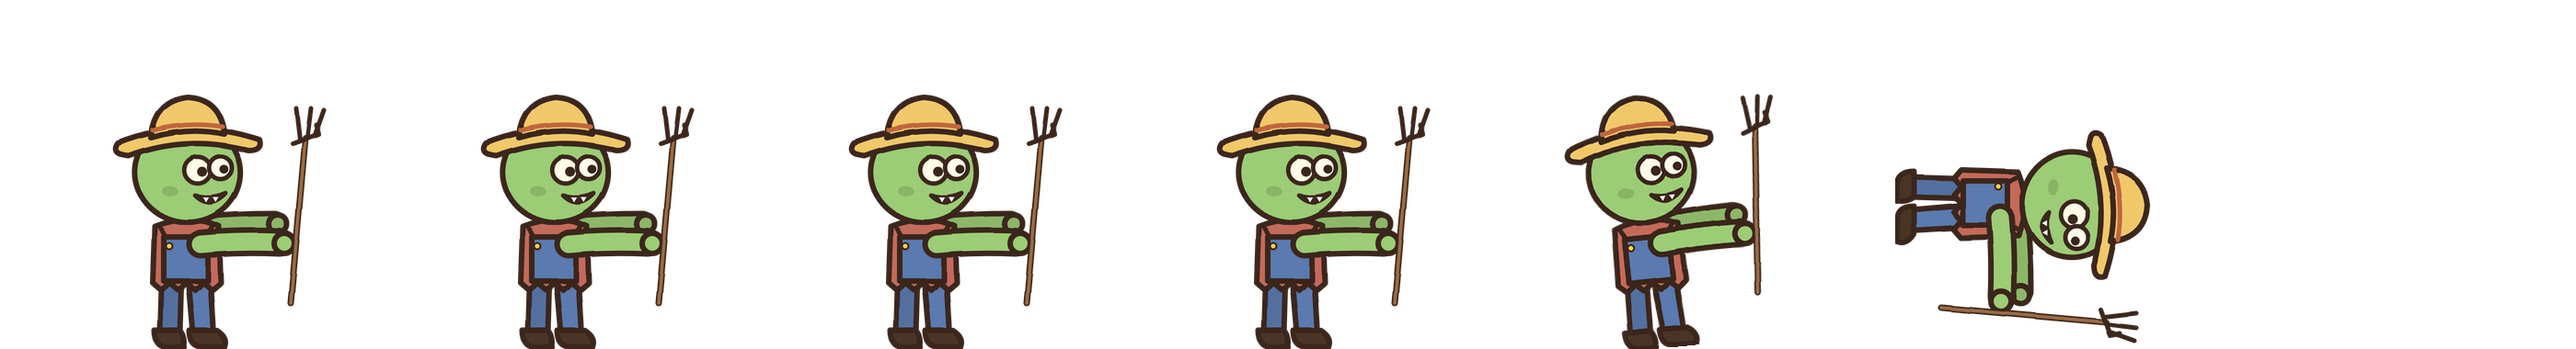
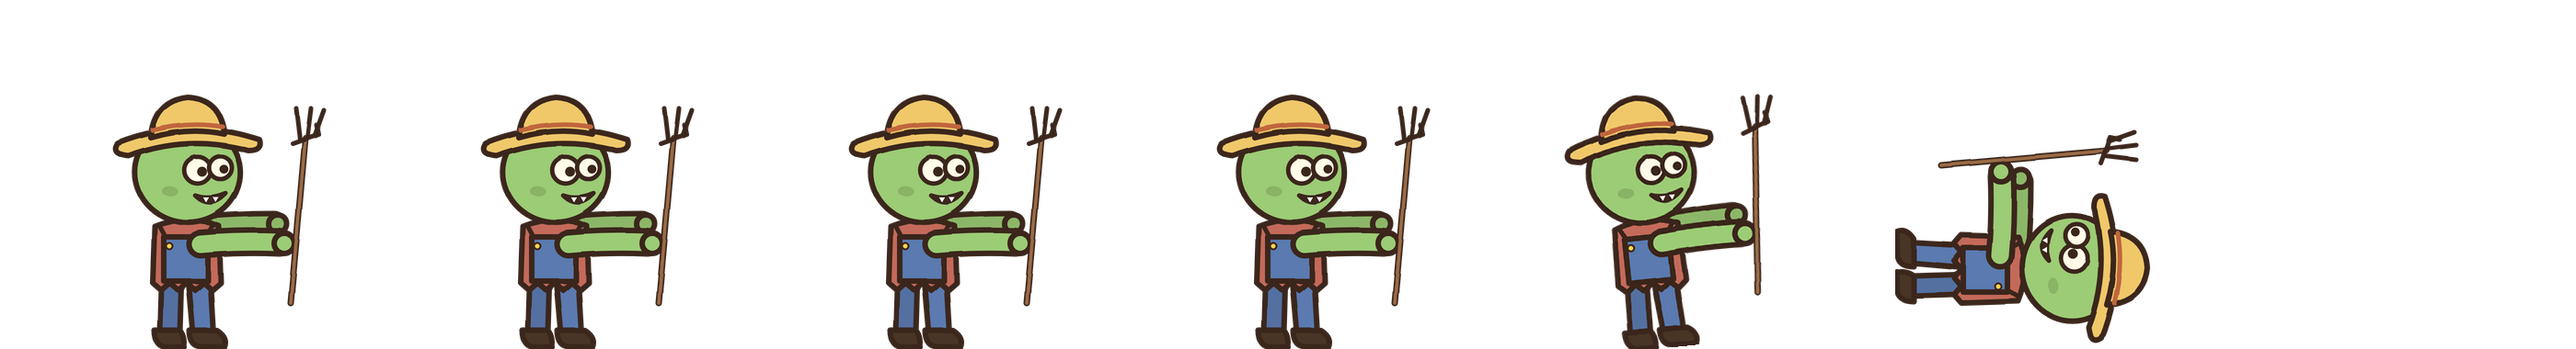
좀비 죽는 모습 고침: 물구나무·엎드려 팔 박힘 → 뒤로 벌러덩 / 기는 좀비는 그 자리에 엎어짐
- 죽기 그림을 걷기 그림에서 시계 방향으로 돌려 만들던 것을 반대로 돌려 좌우 뒤집음(얼굴·팔이 하늘)
- 기어 다니는 좀비(crawler·bucket)는 돌리지 않고 납작하게 · 죽을 때 돌아서지 않음(Zombie.IsCrawler)
- doodle_art.py zdie = 있는 시트에서 죽기 칸만 다시 (Edge 없이)
- PlayTest: 죽는 방향 2줄 + 19d_zombie_die 캡처 · 시험 errors=0

Changed region(s): [[0.7146, 0.3763, 0.8389, 0.9842]]

diff --git a/tools/doodle_art.py b/tools/doodle_art.py
@@ -5,6 +5,7 @@
 → 게임 코드는 그대로, 그림만 바뀜. 뼈대는 그 다음 tools/rig_gen.py 로 다시 심음(ZOMBIE_RIG · CRAWL_RIG · CAPY_BY_SKIN).
 
 사용: PYTHONUTF8=1 python tools/doodle_art.py [capy] [skins] [zombie] [map] [icon]     (없으면 capy·zombie·map) — PowerShell 에서(Bash 에선 Edge 가 안 뜸)
+      zdie = 좀비 죽기 칸만 다시(Edge 없이, Bash 에서도 됨)
       → Kachi_Gun/Assets/Resources/Art/{Char,Zombie,Map}/...  · 미리보기 tools/_preview/doodle_*.png
 원래 도트 그림 백업: tools/_build/pixel_orig/ (git 에는 원래 그림이 기록에 있음)
 
@@ -447,6 +448,45 @@ def ogre():
     ])
 
 
+CRAWLERS = {'crawler', 'bucket'}     # 기어 다니는 좀비 (이미 누워 있음)
+
+
+def zombie_die_cell(a, crawl=False):
+    """죽기 칸(400x380): 바닥(y=376)에 붙인 쓰러진 그림.
+    서 있는 좀비 = 뒤로 벌러덩(머리 오른쪽 · 얼굴·팔은 하늘). 11-08 전엔 시계 방향으로 돌려 얼굴·팔이 땅에 박혔음.
+    기어 다니는 좀비 = 돌리지 않고 그 자리에 납작 엎어짐(머리 오른쪽 그대로). 11-08 전엔 90도 돌려 물구나무가 됐음.
+    게임(Zombie.Die): 서 있는 좀비는 맞은 쪽 반대로 뒤집어 그림, 기어 다니는 좀비는 늘 분대 쪽을 봄."""
+    if crawl:
+        ly = a.rotate(-3, resample=Image.BICUBIC, center=(200, 376))      # 머리 쪽이 살짝 땅으로
+    else:
+        ly = a.rotate(90, resample=Image.BICUBIC, expand=True).transpose(Image.FLIP_LEFT_RIGHT)
+    arr = np.array(ly); ys, xs = np.nonzero(arr[..., 3] > 0)
+    ly = ly.crop((xs.min(), ys.min(), xs.max() + 1, ys.max() + 1))
+    if crawl:
+        ly = ly.resize((ly.width, max(1, int(ly.height * 0.86))), Image.BICUBIC)   # 털썩 납작
+    if ly.width > 396:
+        k = 396 / ly.width; ly = ly.resize((396, int(ly.height * k)), Image.BICUBIC)
+    cell = Image.new('RGBA', (400, 380), (0, 0, 0, 0))
+    cell.alpha_composite(ly, ((400 - ly.width) // 2, 376 - ly.height))
+    return cell
+
+
+def remake_zombie_die():
+    """이미 있는 시트의 걷기 칸(0)에서 죽기 칸(5)만 다시 만듦 — Edge 없이 (Bash 에서도 됨)"""
+    d = os.path.join(ART, 'Zombie')
+    for fn in sorted(os.listdir(d)):
+        if not (fn.startswith('z_') and fn.endswith('.png')):
+            continue
+        name = fn[2:-4]
+        p = os.path.join(d, fn)
+        sheet = Image.open(p).convert('RGBA')
+        a = sheet.crop((0, 0, 400, 380))
+        sheet.paste((0, 0, 0, 0), (2000, 0, 2400, 380))
+        sheet.alpha_composite(zombie_die_cell(a, name in CRAWLERS), (2000, 0))
+        sheet.save(p)
+        print('zombie die', name)
+
+
 def make_zombie(name, svg):
     im = render(svg, 400, 380, wob=4.0, freq=0.018)
     a = Image.fromarray(im)
@@ -456,13 +496,8 @@ def make_zombie(name, svg):
     # 4 맞기 = 살짝 뒤로 젖힘
     hit = a.rotate(6, resample=Image.BICUBIC, center=(200, 376))
     sheet.alpha_composite(hit, (1600, 0))
-    # 5 죽기 = 눕힘(머리 오른쪽), 바닥에 붙임
-    ly = a.rotate(-90, resample=Image.BICUBIC, expand=True)
-    arr = np.array(ly); ys, xs = np.nonzero(arr[..., 3] > 0)
-    ly = ly.crop((xs.min(), ys.min(), xs.max() + 1, ys.max() + 1))
-    if ly.width > 396:
-        k = 396 / ly.width; ly = ly.resize((396, int(ly.height * k)), Image.BICUBIC)
-    sheet.alpha_composite(ly, (2000 + (400 - ly.width) // 2, 376 - ly.height))
+    # 5 죽기
+    sheet.alpha_composite(zombie_die_cell(a, name in CRAWLERS), (2000, 0))
     # 6 = 흰 실루엣
     al = im[..., 3]
     wh = np.zeros_like(im); wh[..., :3] = 255; wh[..., 3] = al
@@ -626,6 +661,8 @@ if __name__ == '__main__':
         pv.save(os.path.join(PREV, 'doodle_skins.png'))
     if 'zombie' in what:
         make_zombies()
+    if 'zdie' in what:
+        remake_zombie_die()
     if 'map' in what:
         make_map()
     if 'icon' in what:

diff --git a/Kachi_Gun/Assets/Scripts/Editor/PlayTest.cs b/Kachi_Gun/Assets/Scripts/Editor/PlayTest.cs
@@ -747,6 +747,32 @@ namespace KachiGun.EditorTools
                 Log($"밀림 값: 미사일 {mv:0.00} · 일반 {mv2:0.00}");
                 Check(mv < 0.001f && mv2 > 0.5f, "미사일 피해 = 넉백 없음 (일반 피해만 밀림)");
                 GM.ClearTargets();
+                // 11-08 죽는 방향: 서 있는 좀비 = 분대(왼쪽)에서 맞으면 뒤로 벌러덩(머리 오른쪽 = 뒤집지 않음)
+                //                기어 다니는 좀비 = 돌아서지 않고 분대 쪽을 본 채 엎어짐(뒤집음). 전엔 물구나무로 죽었음
+                {
+                    var zrows = Tables.Zombies;
+                    var dz = new System.Collections.Generic.List<Zombie>();
+                    int dn = zrows.Count, dcol = 4;
+                    for (int i = 0; i < dn; i++)
+                    {
+                        float x = Mathf.Lerp(-Field.I.ViewHalfW + 1.3f, Field.I.ViewHalfW - 1.3f, (i % dcol) / (dcol - 1f));
+                        float y = Field.I.PlayTop - 1.6f - (i / dcol) * 2.2f;
+                        dz.Add(Zombie.Spawn(zrows[i], new Vector2(x, y), 1e12, 0));
+                    }
+                    yield return Wait(0.1f);
+                    foreach (var q in dz) q.Hit(2e12, q.Pos + Vector2.left, false);
+                    bool stand = true, crawl = true; int nCrawl = 0;
+                    foreach (var q in dz)
+                    {
+                        if (q.IsCrawler) { nCrawl++; crawl &= q.sr.flipX; }
+                        else stand &= !q.sr.flipX;
+                    }
+                    Check(stand, "죽는 방향: 서 있는 좀비는 뒤로 벌러덩(머리가 분대 반대쪽)");
+                    Check(nCrawl >= 2 && crawl, $"죽는 방향: 기어 다니는 좀비 {nCrawl}종은 분대 쪽을 본 채 엎어짐");
+                    yield return Wait(0.45f);
+                    Capture("19d_zombie_die");
+                    GM.ClearTargets();
+                }
                 // 미사일 장착 장면 캡처 (등급 색 폭발 · 네온 오오라)
                 var keep = new System.Collections.Generic.List<int>(S.slots);
                 S.slots[0] = Tables.Code(7, "missile"); S.slots[1] = Tables.Code(5, "single"); S.slots[2] = Tables.Code(3, "pierce");   // 청록 미사일 · 빨강 단발 · 보라 관통

diff --git a/Kachi_Gun/Assets/Scripts/Game/Zombie.cs b/Kachi_Gun/Assets/Scripts/Game/Zombie.cs
@@ -308,6 +308,9 @@ namespace KachiGun
             else { AudioManager.Play(AudioManager.Sfx.Hit); ShowBar(isBoss); }
         }
 
+        /// <summary>기어 다니는 좀비(crawler·bucket) — 뼈대 종류 crawl</summary>
+        public bool IsCrawler => rig ? rig.data.kind == "crawl" : row != null && (row.id == "crawler" || row.id == "bucket");
+
         void Die(Vector2 from, bool push = true)
         {
             dead = true;
@@ -319,7 +322,9 @@ namespace KachiGun
             if (shaderFlash) { flashT = FlashTime; if (rig) Art.SetFlash(rig.sr, 0); }
             fallFrom = 0.35f * scale;
             knock = push ? (Pos - from).normalized * (isBoss ? 0.5f : 1.8f) : Vector2.zero;   // 미사일로 죽으면 밀리지 않고 그 자리에 쓰러짐
-            dir = (Pos - from).x > 0 ? 1 : -1;      // 맞은 쪽 반대로 쓰러짐 (죽기 그림은 머리가 오른쪽)
+            // 죽기 그림은 머리가 오른쪽. 서 있는 좀비 = 맞은 쪽 반대로 벌러덩 · 기어 다니는 좀비 = 돌아서지 않고 그 자리에 엎어짐(분대 쪽)
+            if (IsCrawler) dir = -1;
+            else dir = (Pos - from).x > 0 ? 1 : -1;
             sr.flipX = flash.flipX = dir < 0;
             AudioManager.Play(isBoss ? AudioManager.Sfx.BossDead : AudioManager.Sfx.Dead);
             GameManager.I?.OnTargetDead(this);
